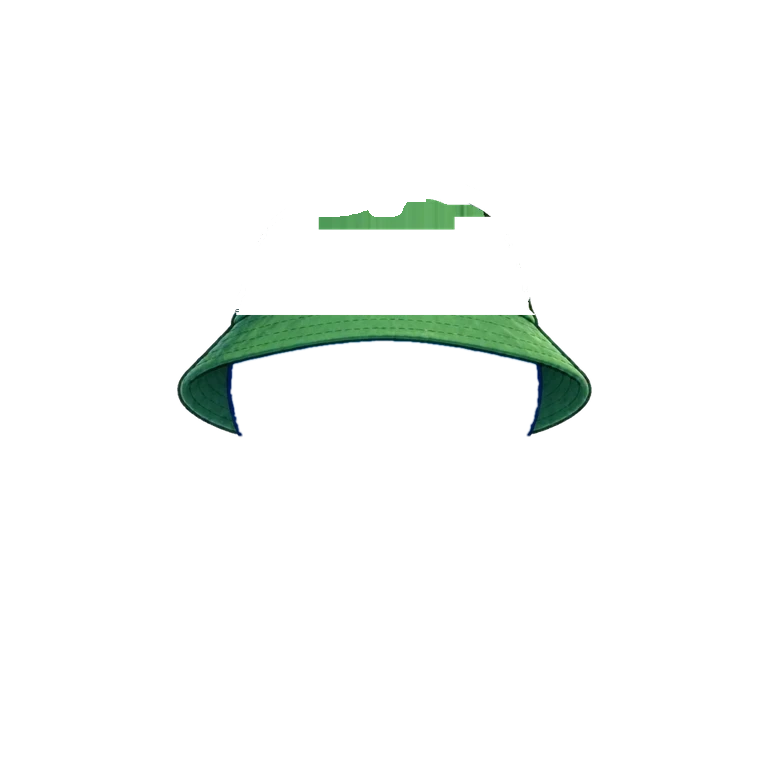
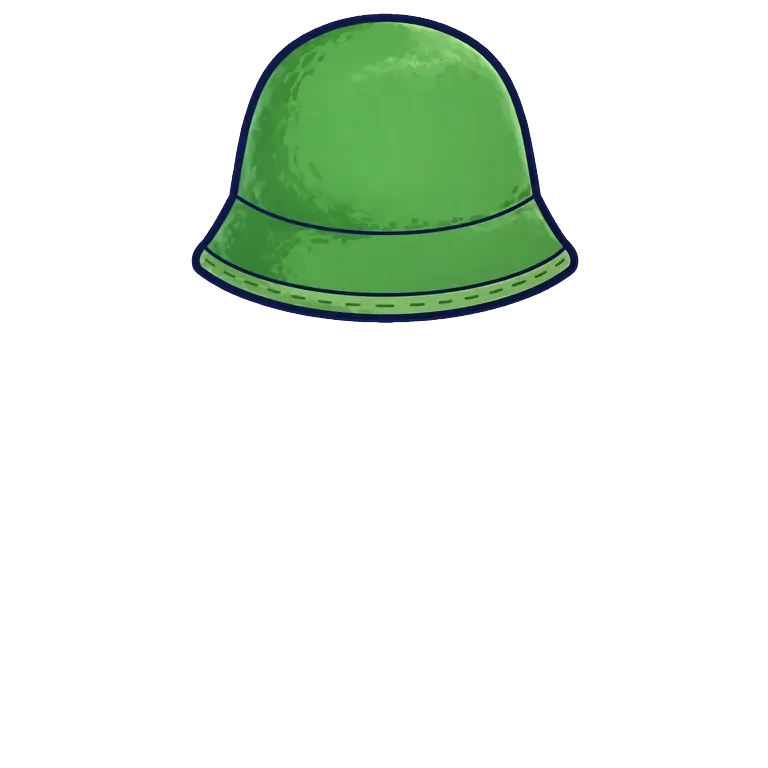
Pi: mũ / nón trùm đầu thì ẩn hẳn lá; mở bán 4 mũ Muse vẽ riêng (Noel, tai bèo xanh, rơm nơ hồng, len tai mèo)
- build.py: cover=true cho món ô Đầu trừ băng đô / vương miện / kẹp / cài / trâm / bịt tai / kính; STANDALONE: món vẽ riêng chỉ đặt đè, không chạy bộ cắt lá / vụn
- layerOrder: cover → bỏ lớp lá; món đầu khác → lá dưới món
- fit_check EYE_OK 3 mũ (chóp nhọn / vành cong / khe tai báo nhầm), đã ghép duyệt
- test pi-layer-order (4 ca)

Claude-Session: https://claude.ai/code/session_0163KSZYdzHDud2uG42gs7mp

Changed region(s): [[0.2188, 0.0, 0.7812, 0.5625]]

diff --git a/src/pi/piCatalog.js b/src/pi/piCatalog.js
@@ -24,7 +24,7 @@ export const PRICE = { giay: 80, toc: 100, gang: 100, co: 100, mat: 120, tay: 15
 const item = (x, i) => ({
   id: x.id, name: x.name, slot: x.slot, ev: x.ev, collection: x.ev, variants: [x.g],
   rarity: "common", price: PRICE[x.slot] ?? 100, level: 1, achievement: false, hidden: false, sort: i,
-  file: `${PI_BASE}${x.file}${PI_VER}`, icon: `${PI_BASE}icon/${x.id}.webp${PI_VER}`, arm: x.arm || null, src: x.file, c: x.c || [384, 384], ...(x.tf0 ? { tf: x.tf0, tf0: x.tf0 } : {}), // 24/10: mũ tự canh vừa đầu (Quản trị chỉnh tay thì đè)
+  file: `${PI_BASE}${x.file}${PI_VER}`, icon: `${PI_BASE}icon/${x.id}.webp${PI_VER}`, arm: x.arm || null, cover: !!x.cover, src: x.file, c: x.c || [384, 384], ...(x.tf0 ? { tf: x.tf0, tf0: x.tf0 } : {}), // 24/10: mũ tự canh vừa đầu (Quản trị chỉnh tay thì đè)
   ...(fit.bad[x.id] ? { broken: true, redraw: true, redraw_note: fit.bad[x.id].join("; ") } : {}),
 });
 // 23/10: mỗi món Phòng có đủ 3 ảnh theo giờ (times: sang / trua / toi → đúng file rooms/phong_<chude>_<giờ>.webp).

diff --git a/src/pi/layerOrder.js b/src/pi/layerOrder.js
@@ -1,3 +1,10 @@
-// 24/10 (chủ dự án: "đội mũ nón thì đè mẹ lá đi cho đỡ lỗi"): có món ô Đầu → lá Pi xếp DƯỚI mũ
-// (mũ trùm che lá; vương miện / băng đô / kẹp vẫn lộ lá). Không đội gì thì giữ thứ tự manifest (lá trên cùng phần đầu).
-export const layerOrder = (eq, order) => (eq && eq.dau ? order.filter((L) => L !== "la").flatMap((L) => (L === "dau" ? ["la", "dau"] : [L])) : order);
+// 24/10 (chủ dự án: "mũ nón mà trùm cả đầu thì đè hẳn lá cho đỡ lỗi"):
+// - món ô Đầu trùm đầu (it.cover, scripts/pi/build.py) → BỎ hẳn lớp lá
+// - món ô Đầu khác (vương miện, băng đô, kẹp…) → lá xếp ngay dưới món
+// - không đội gì → giữ thứ tự manifest
+export const layerOrder = (eq, order) => {
+  const d = eq && eq.dau;
+  if (!d) return order;
+  if (d.cover) return order.filter((L) => L !== "la");
+  return order.filter((L) => L !== "la").flatMap((L) => (L === "dau" ? ["la", "dau"] : [L]));
+};

diff --git a/scripts/pi/build.py b/scripts/pi/build.py
@@ -89,6 +89,8 @@ for side in ("trai", "phai"):
 # món vẽ cánh tay riêng (giơ lên / bưng ra trước) KHÔNG đè tay gốc → dùng thân bỏ tay bên đó. Soát mắt 24/10 từng món ứng viên
 # (da xanh ngoài thân ≥ 1000px, phủ vùng tay gốc < 40%); món không vẽ bàn tay (đũa phép, xẻng, chong chóng) giữ tay gốc.
 # 24/10 soát từng món: vệt lá cũ sót xa gốc lá (vùng rộng; KHÔNG áp chung vì vòng hoa có lá thật)
+# 24/10 tối (chủ dự án chốt): món Muse vẽ RIÊNG trên nền trong suốt → chỉ đặt đè lên, KHÔNG chạy bộ cắt lá / vụn (cắt nhầm mũ xanh lá)
+STANDALONE = {"giangsinh-nam-dau01", "muahe-nam-dau03", "muahe-nu-dau01", "muadong-nu-dau01"}
 SHOE_SCALE = {"tet-nu-giay02": 0.66}
 LEAF_WIDE = {"giangsinh-nam-dau05", "trungthu-nam-dau03", "muahe-nam-dau05", "trungthu-nu-dau02"}
 ARM_HIDE = {"giangsinh-nam-pk07": "trai", "muadong-nam-pk08": "trai", "muadong-nu-pk08": "trai", "muahe-nam-pk05": "trai",
@@ -146,7 +148,7 @@ for it in cat["items"]:
     if it["slot"] in ("ao", "co", "lung", "mat") and LEAF is not None:  # 24/10: mắt (kính) còn viền đầu mờ quanh mặt  # 24/10 (pi_fix_6): áo / cổ / lưng cũng còn chấm mờ lơ lửng
         _a, _g = fix_hat(np.asarray(im), LEAF[..., 3])
         if _g: im = Image.fromarray(_a); total += put(it["file"], im=im, q=90)
-    if it["slot"] in ("dau", "toc") and LEAF is not None:  # 24/10: kẹp tóc cũng còn viền lá ma / lá vẽ đúp
+    if it["slot"] in ("dau", "toc") and LEAF is not None and iid not in STANDALONE:  # 24/10: kẹp tóc cũng còn viền lá ma / lá vẽ đúp
         _a, _g = fix_hat(np.asarray(im), LEAF[..., 3], leaf=True, wide=iid in LEAF_WIDE)
         if _g: im = Image.fromarray(_a); total += put(it["file"], im=im, q=90)
     bb = im.getbbox()
@@ -160,6 +162,8 @@ for it in cat["items"]:
     if iid in SHOE_SCALE:  # 24/10 soát từng món: guốc vẽ to gấp đôi chân → thu nhỏ quanh tâm, giữ đáy chạm chân
         _s = SHOE_SCALE[iid]; _cy = row["c"][1]; _yb = bb[3]
         row["tf0"] = {"x": 0, "y": round(_yb - (_cy + (_yb - _cy) * _s)), "s": _s, "w": 1, "h": 1, "r": 0, "fx": False}
+    if it["slot"] == "dau" and not re.search(r"^(vương miện|băng đô|vòng|kẹp|cài|nơ|dây|trâm|bờm|bịt tai|kính)", it["name"], re.I):
+        row["cover"] = True  # 24/10 (chủ dự án): mũ / nón trùm đầu → app ẩn hẳn lá
     if it["slot"] == "dau":  # 24/10: tự canh cỡ / vị trí mũ trùm cho vừa đầu (tf0)
         _tf = hat_tf(np.asarray(im), body[..., 3], it["name"], row["c"])
         if _tf: row["tf0"] = _tf

diff --git a/scripts/pi/fit_check.py b/scripts/pi/fit_check.py
@@ -166,7 +166,7 @@ def check(it):
 
 # 24/10 duyệt bằng mắt (bộ pi_fix_30): OK = báo nhầm (vật vốn có cạnh thẳng đứng); BAD = lỗi máy không bắt được
 # (24/10: bộ pi_full thay 234 món → duyệt mắt lại từ đầu; ghi vào đây món nào duyệt xong)
-EYE_OK = {"muadong-nam-pk08": "quả cầu kính xanh nhạt (báo nhầm mảng thân)", "muahe-nam-pk11": "phao vịt ôm sát người (báo nhầm viền thân)", "trungthu-nu-pk04": "thỏ bông vốn màu trắng (báo nhầm mảng trắng)", "trungthu-nu-dau04": "dây đèn lồng vốn lệch 1 bên (soát mắt 24/10)", "tet-nam-pk08": "cuộn thư dựng đứng (bản fix_30 đã duyệt)", "muahe-nu-pk05": "ly thẳng thành (bản fix_30 đã duyệt)", "muadong-nu-pk08": "bàn tay cầm quả cầu (bản Muse vẽ lại 24/10, thân cụt tay) — báo nhầm mảng thân"}
+EYE_OK = {"muadong-nam-pk08": "quả cầu kính xanh nhạt (báo nhầm mảng thân)", "muahe-nam-pk11": "phao vịt ôm sát người (báo nhầm viền thân)", "trungthu-nu-pk04": "thỏ bông vốn màu trắng (báo nhầm mảng trắng)", "trungthu-nu-dau04": "dây đèn lồng vốn lệch 1 bên (soát mắt 24/10)", "tet-nam-pk08": "cuộn thư dựng đứng (bản fix_30 đã duyệt)", "muahe-nu-pk05": "ly thẳng thành (bản fix_30 đã duyệt)", "giangsinh-nam-dau01": "mũ Noel vẽ riêng 24/10, duyệt ghép (chóp nhọn → báo nhầm thủng / mép vành cong)", "muahe-nam-dau03": "mũ tai bèo vẽ riêng 24/10, duyệt ghép (vành cong báo nhầm)", "muadong-nu-dau01": "len tai mèo vẽ riêng 24/10, duyệt ghép (khe giữa 2 tai báo nhầm thủng)", "muadong-nu-pk08": "bàn tay cầm quả cầu (bản Muse vẽ lại 24/10, thân cụt tay) — báo nhầm mảng thân"}
 # 24/10 tối: Muse vẽ lại kính / giày đen / quả cầu tuyết nữ / kẹp tóc / vòng ngọc → đã duyệt mắt, bỏ khỏi EYE_BAD
 EYE_BAD = {"muahe-nam-pk12": "balo vẽ kèm bản sao viền thân xanh vụn quanh người (chờ bản vẽ lại pi_fix_balo)"}  # 24/10 duyệt mắt
 res = {}
